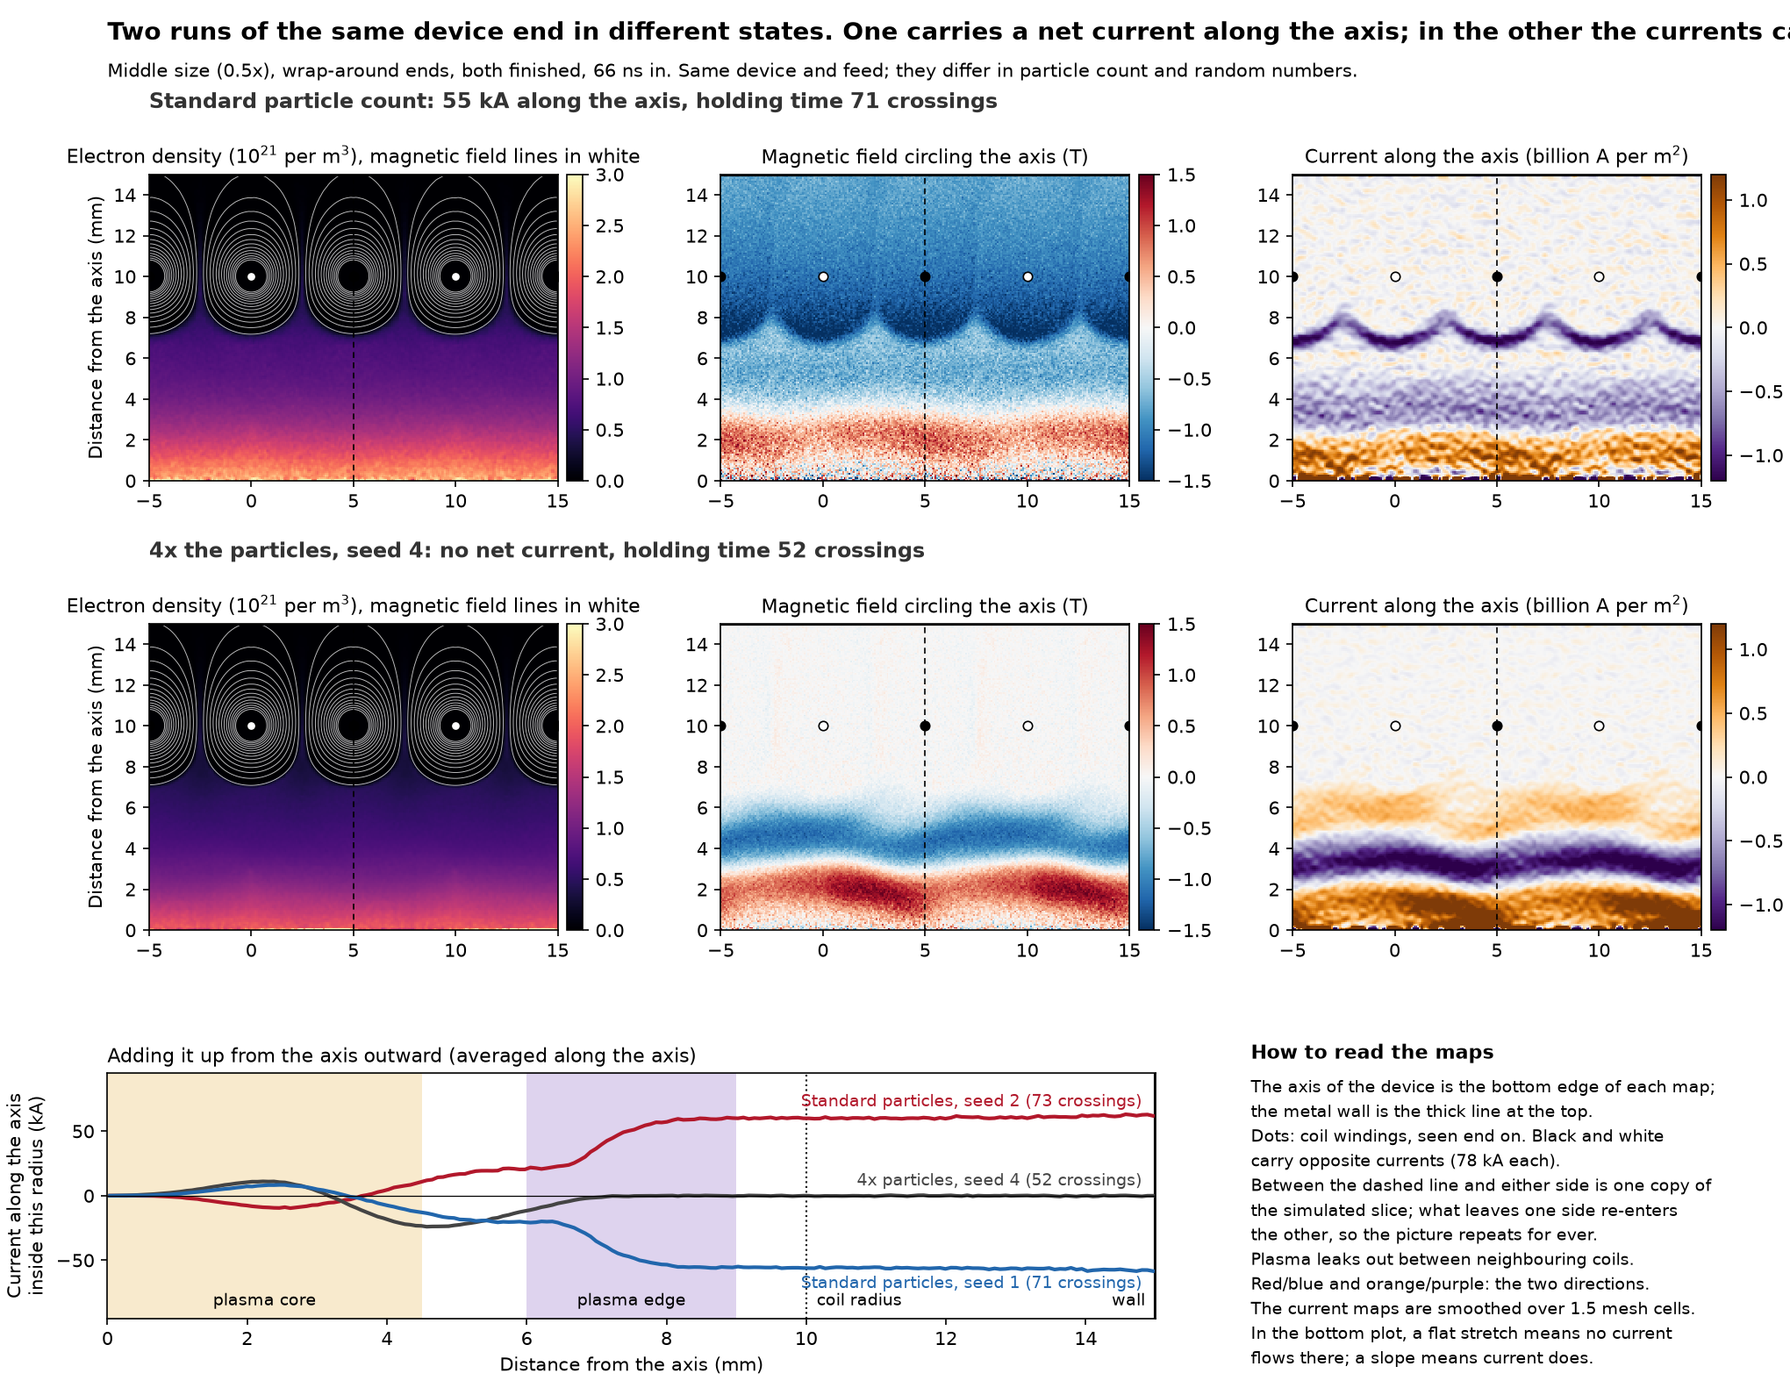
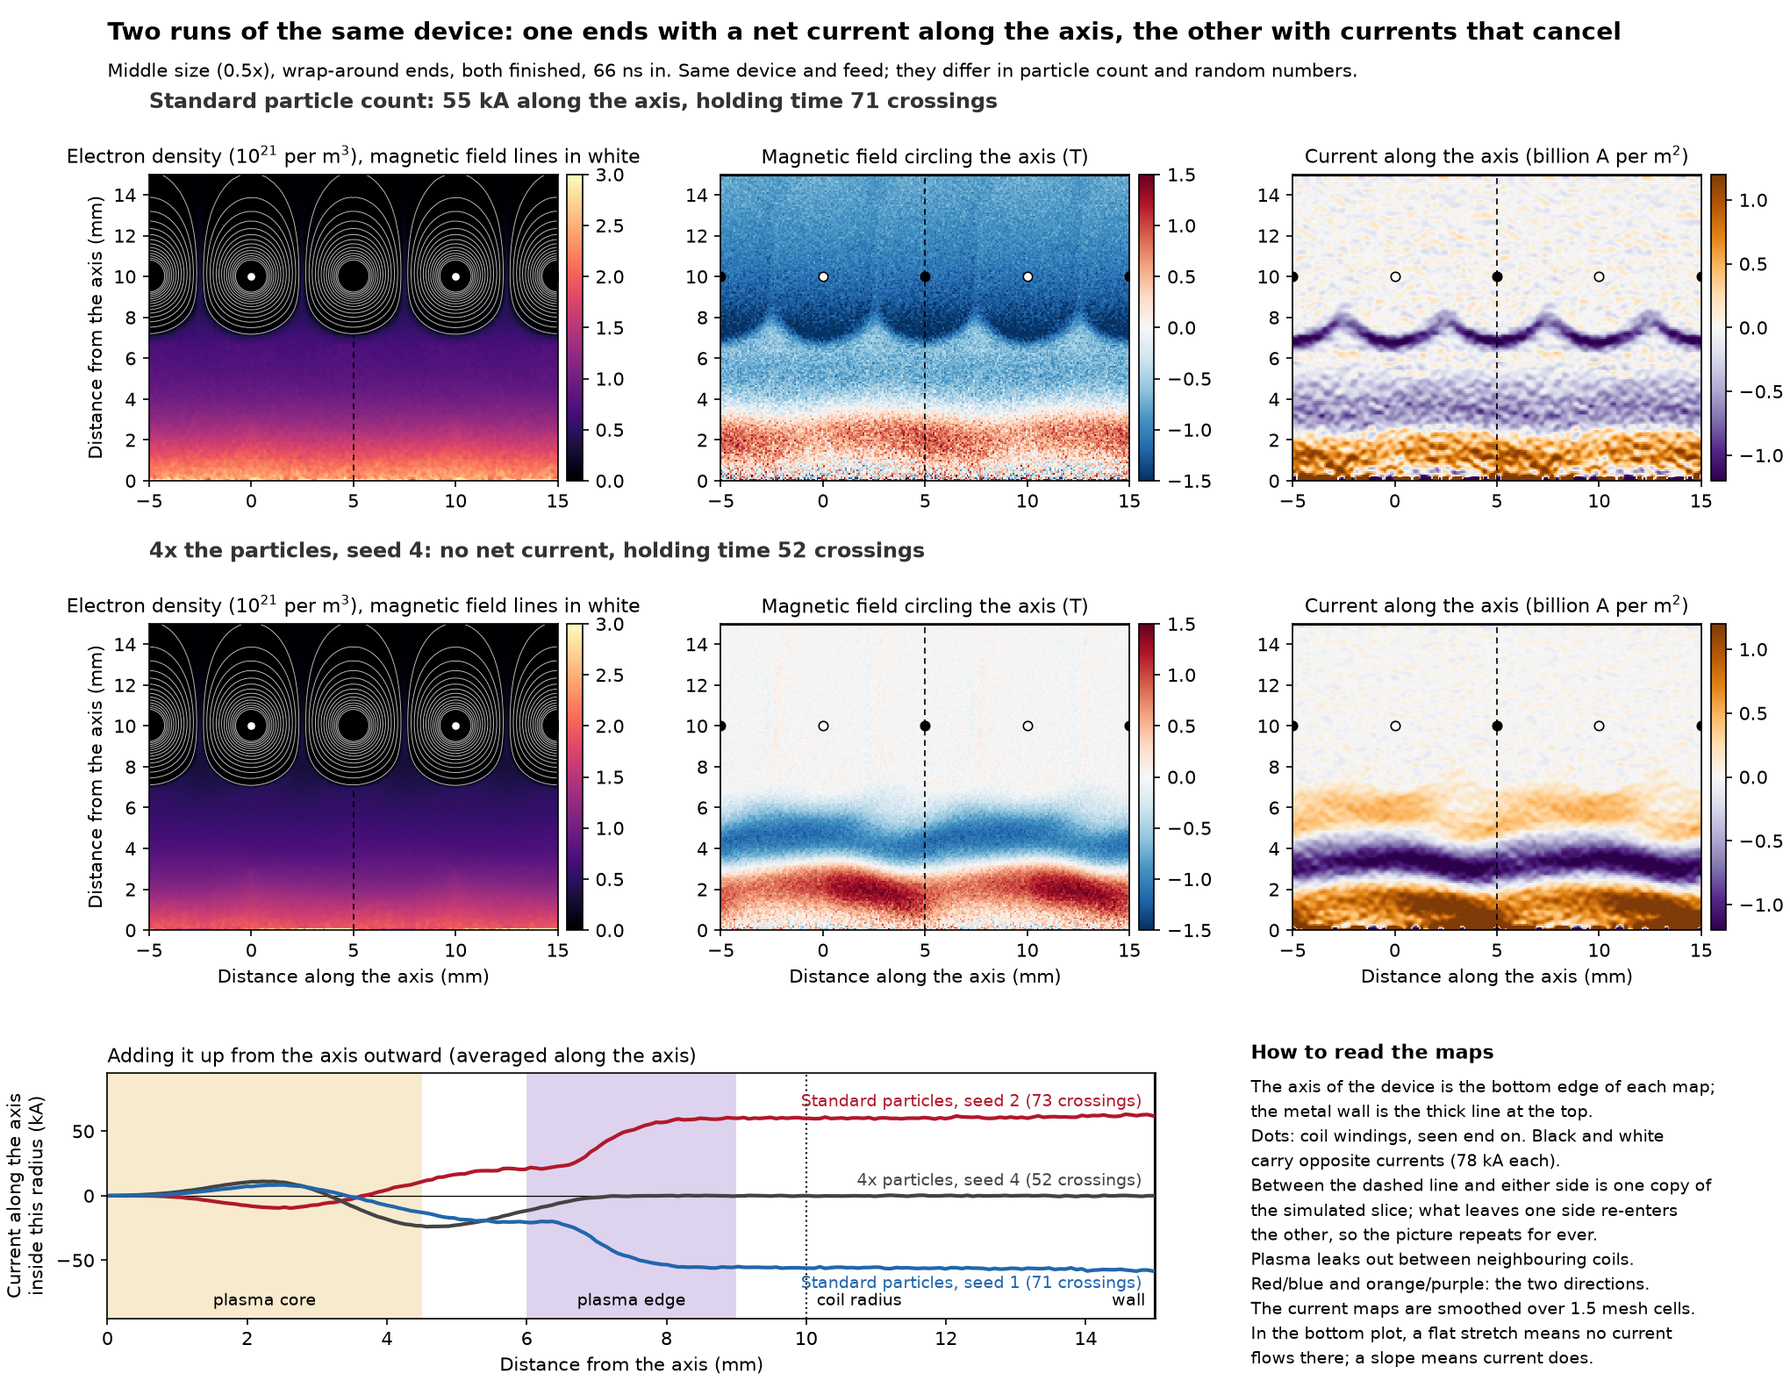
Rewrite the field-map drawing as functions and stop the title running off the page

diff --git a/warpx/cusp/plot_field_maps.py b/warpx/cusp/plot_field_maps.py
@@ -19,6 +19,42 @@ from pathlib import Path
 
 import numpy as np
 
+MU0 = 4e-7 * np.pi
+QE = 1.602176634e-19
+WALL, COIL, HALF_PERIOD = 15.0, 10.0, 5.0  # mm
+
+# Current figure: the two cases mapped, then the three whose running totals are plotted.
+RUNS = [
+    ("pw_s0.5_h1.0@1", "Standard particle count: 55 kA along the axis, holding time 71 crossings"),
+    ("pw_s0.5_h1.0_ppc4_seed4@1", "4x the particles, seed 4: no net current, holding time 52 crossings"),
+]
+TOTALS = [
+    ("pw_s0.5_h1.0_seed2@1", "Standard particles, seed 2 (73 crossings)", "#b2182b"),
+    ("pw_s0.5_h1.0_ppc4_seed4@1", "4x particles, seed 4 (52 crossings)", "#444444"),
+    ("pw_s0.5_h1.0@1", "Standard particles, seed 1 (71 crossings)", "#2166ac"),
+]
+# Mirror figure: one column each. No title means "Mirror ends" and the snapshot's time.
+COLUMNS = [("pw_s0.25_h1.0_long_ppc8@1", "Wrap-around ends, 66 ns")] + [
+    (f"pw_s0.25_h1.0_long2_ppc8_mirror@{fraction}", None) for fraction in ("0.25", "0.5", "0.75", "1")
+]
+READING = """The axis of the device is the bottom edge of each map;
+the metal wall is the thick line at the top.
+Dots: coil windings, seen end on. Black and white
+carry opposite currents (78 kA each).
+Between the dashed line and either side is one copy of
+the simulated slice; what leaves one side re-enters
+the other, so the picture repeats for ever.
+Plasma leaks out between neighbouring coils.
+Red/blue and orange/purple: the two directions.
+The current maps are smoothed over 1.5 mesh cells.
+In the bottom plot, a flat stretch means no current
+flows there; a slope means current does."""
+MIRROR_NOTE = """Smallest well-behaved size (0.25x), 4x the standard particles, one simulated slice. Left column: the same \
+device with wrap-around ends, for comparison.
+Colours are on a logarithmic scale. The plasma itself holds about 4 x 10$^{20}$ electrons per m$^3$; the surplus \
+on the axis reaches 120 to 190 x 10$^{20}$ by the end.
+In the mirror columns, the left and right edges of each map are the mirror planes."""
+
 
 def pack(specs: list[str]) -> None:
     out = {}
@@ -46,101 +82,191 @@ def pack(specs: list[str]) -> None:
     sys.stdout.write(base64.b64encode(packed.getvalue()).decode())
 
 
-if sys.argv[1] == "pack":
-    pack(sys.argv[2:])
-    sys.exit()
-
-import matplotlib
-
-matplotlib.use('Agg')
-import matplotlib.pyplot as plt
-from matplotlib.colors import LogNorm, SymLogNorm, TwoSlopeNorm
-from scipy.ndimage import gaussian_filter
-d=np.load(sys.argv[2]); names=list(d['names']); MU0=4e-7*np.pi; QE=1.602176634e-19
-RW,RC,H=15.0,10.0,5.0   # mm
-plt.rcParams.update({'font.size':10,'axes.titlesize':10.5,'figure.dpi':150,'font.family':'DejaVu Sans'})
-def get(k):
-    a=d[k].astype('f8'); f={n:a[i] for i,n in enumerate(names)}; nz,nr=a.shape[1:]
-    r=(np.arange(nr)+.5)/nr*RW*1e-3
-    f['ne']=-f['rho_electrons']/QE; f['net']=(f['rho_electrons']+f['rho_ions'])/QE
-    f['psi']=np.cumsum(r*f['Bz'],axis=1)*(r[1]-r[0])
-    f['jz']=np.gradient(r*f['Bt'],r,axis=1)/(MU0*r)
-    f['I']=2*np.pi*r*f['Bt'].mean(0)/MU0; f['r']=r*1e3; f['t']=float(d[k+'_t'])*1e9
-    f['E']=np.hypot(f['Er'],f['Ez'])
+def load(archive, key: str) -> dict:
+    """One snapshot's mesh fields by name, indexed [along the axis, from the axis], with the derived ones."""
+    stack = archive[key].astype("f8")
+    f = dict(zip(archive["names"], stack, strict=True))
+    cells = stack.shape[2]
+    r = (np.arange(cells) + 0.5) / cells * WALL * 1e-3
+    f["r_mm"] = r * 1e3
+    f["ns"] = float(archive[key + "_t"]) * 1e9
+    f["electrons"] = -f["rho_electrons"] / QE
+    f["ions_minus_electrons"] = (f["rho_electrons"] + f["rho_ions"]) / QE
+    f["flux"] = np.cumsum(r * f["Bz"], axis=1) * (r[1] - r[0])
+    f["current_density"] = np.gradient(r * f["Bt"], r, axis=1) / (MU0 * r)
+    f["current_inside"] = 2 * np.pi * r * f["Bt"].mean(0) / MU0
+    f["field_strength"] = np.hypot(f["Er"], f["Ez"])
     return f
-def tile(a,periodic=True,odd=False):
-    """two periods side by side; a mirrored run's image is its reflection"""
-    return np.concatenate([a,a],0) if periodic else np.concatenate([a,(-1 if odd else 1)*a[::-1]],0)
-def frame(ax,nper=2,ends='repeat'):
-    ax.set_xlim(-H,-H+2*H*nper); ax.set_ylim(0,RW); ax.set_aspect('equal')
-    for k in range(0,2*nper+1):
-        ax.plot([-H+k*H],[RC],'o',ms=5,mfc='white' if k%2 else 'black',mec='black',mew=0.8,zorder=5,clip_on=False if 0<k<2*nper else True)
-    ax.axhline(RW,color='k',lw=2)
-    if nper==2: ax.axvline(H,color='k',lw=0.8,ls=(0,(4,3)))
-def show(ax,a,ext,**kw):
-    return ax.imshow(a.T,origin='lower',extent=ext,aspect='equal',interpolation='nearest',**kw)
-def lines(ax,psi,ext,n=14):
-    z=np.linspace(ext[0],ext[1],psi.shape[0]*2+1)[1::2]; r=np.linspace(0,RW,psi.shape[1]*2+1)[1::2]
-    m=np.abs(psi[:, :int(0.62*psi.shape[1])]).max()
-    ax.contour(z,r,psi.T,levels=np.linspace(-m,m,2*n+1)[np.r_[0:n,n+1:2*n+1]]*0.98,colors='white',linewidths=0.45,alpha=0.75,linestyles='solid')
 
-# ---------- figure 1: where the current flows (0.5x, periodic, end of the run)
-runs=[('pw_s0.5_h1.0@1','Standard particle count: 55 kA along the axis, holding time 71 crossings'),
-      ('pw_s0.5_h1.0_ppc4_seed4@1','4x the particles, seed 4: no net current, holding time 52 crossings')]
-fig=plt.figure(figsize=(13.6,10.6)); gs=fig.add_gridspec(3,3,height_ratios=[1,1,0.8],hspace=0.5,wspace=0.2,left=0.06,right=0.965,top=0.875,bottom=0.055)
-ext=(-H,3*H,0,RW)
-for i,(k,label) in enumerate(runs):
-    f=get(k)
-    ax=fig.add_subplot(gs[i,0]); im=show(ax,tile(f['ne'])/1e21,ext,cmap='magma',vmin=0,vmax=3.0); lines(ax,tile(f['psi']),ext); frame(ax)
-    ax.set_title('Electron density (10$^{21}$ per m$^3$), magnetic field lines in white'); plt.colorbar(im,ax=ax,fraction=0.035,pad=0.02); ax.set_ylabel('Distance from the axis (mm)')
-    ax.text(-H,RW*1.2,label,fontsize=11.5,fontweight='bold',ha='left',va='bottom',color='#333333')
-    ax=fig.add_subplot(gs[i,1]); im=show(ax,tile(f['Bt']),ext,cmap='RdBu_r',vmin=-1.5,vmax=1.5); frame(ax)
-    ax.set_title('Magnetic field circling the axis (T)'); plt.colorbar(im,ax=ax,fraction=0.035,pad=0.02)
-    ax=fig.add_subplot(gs[i,2]); im=show(ax,tile(gaussian_filter(f['jz'],1.5,mode=('wrap','nearest')))/1e9,ext,cmap='PuOr_r',vmin=-1.2,vmax=1.2); frame(ax)
-    ax.set_title('Current along the axis (billion A per m$^2$)'); plt.colorbar(im,ax=ax,fraction=0.035,pad=0.02)
-for ax in fig.axes:
-    if ax.get_aspect()==1.0 and ax.get_xlim()==(-H,3*H) and ax.get_subplotspec().rowspan.start==1: ax.set_xlabel('Distance along the axis (mm)')
-ax=fig.add_subplot(gs[2,:2])
-ax.axvspan(0,4.5,color='#f3d9a4',alpha=0.55,lw=0); ax.axvspan(6,9,color='#c9b6e4',alpha=0.6,lw=0); ax.axvline(RC,color='k',lw=1,ls=':'); ax.axvline(RW,color='k',lw=2)
-for k,lab,c in [('pw_s0.5_h1.0_seed2@1','Standard particles, seed 2 (73 crossings)','#b2182b'),('pw_s0.5_h1.0_ppc4_seed4@1','4x particles, seed 4 (52 crossings)','#444444'),('pw_s0.5_h1.0@1','Standard particles, seed 1 (71 crossings)','#2166ac')]:
-    f=get(k); ax.plot(f['r'],f['I']/1e3,color=c,lw=2); ax.text(14.8,f['I'][-40:].mean()/1e3+(5 if f['I'][-1]>=-1e3 else -5),lab,color=c,ha='right',va='bottom' if f['I'][-1]>=-1e3 else 'top',fontsize=9)
-ax.axhline(0,color='k',lw=0.6); ax.set_xlim(0,RW); ax.set_ylim(-95,95)
-ax.set_xlabel('Distance from the axis (mm)'); ax.set_ylabel('Current along the axis\ninside this radius (kA)')
-ax.set_title('Adding it up from the axis outward (averaged along the axis)',loc='left')
-ax.text(2.25,-88,'plasma core',ha='center',va='bottom',fontsize=9); ax.text(7.5,-88,'plasma edge',ha='center',va='bottom',fontsize=9); ax.text(RC+0.15,-88,'coil radius',fontsize=9,va='bottom'); ax.text(RW-0.15,-88,'wall',ha='right',fontsize=9,va='bottom')
-ax=fig.add_subplot(gs[2,2]); ax.axis('off')
-ax.text(0,1.12,'How to read the maps',fontweight='bold',va='top',fontsize=10.5)
-ax.text(0,0.99,'\n'.join([
- 'The axis of the device is the bottom edge of each map;',
- 'the metal wall is the thick line at the top.',
- 'Dots: coil windings, seen end on. Black and white',
- 'carry opposite currents (78 kA each).',
- 'Between the dashed line and either side is one copy of',
- 'the simulated slice; what leaves one side re-enters',
- 'the other, so the picture repeats for ever.',
- 'Plasma leaks out between neighbouring coils.',
- 'Red/blue and orange/purple: the two directions.',
- 'The current maps are smoothed over 1.5 mesh cells.',
- 'In the bottom plot, a flat stretch means no current',
- 'flows there; a slope means current does.']),va='top',fontsize=9.3,linespacing=1.45)
-fig.suptitle('Two runs of the same device end in different states. One carries a net current along the axis; in the other the currents cancel.',x=0.06,ha='left',fontsize=13.5,fontweight='bold',y=0.985)
-fig.text(0.06,0.955,'Middle size (0.5x), wrap-around ends, both finished, 66 ns in. Same device and feed; they differ in particle count and random numbers.',fontsize=10,va='top')
-fig.savefig(Path(sys.argv[3],'picket-axial-current-map.png')); plt.close(fig)
 
-# ---------- figure 2: charge pile-up on the axis between mirror planes (0.25x)
-cols=[('pw_s0.25_h1.0_long_ppc8@1','Wrap-around ends, 66 ns',True)]+[(f'pw_s0.25_h1.0_long2_ppc8_mirror@{w}',None,False) for w in ('0.25','0.5','0.75','1')]
-fig,axs=plt.subplots(3,5,figsize=(13.6,11.2),gridspec_kw=dict(left=0.095,right=0.9,top=0.855,bottom=0.05,wspace=0.12,hspace=0.28,height_ratios=[1.5,0.75,1.5]))
-ext=(-H,H,0,RW)
-for j,(k,lab,per) in enumerate(cols):
-    f=get(k); lab=lab or 'Mirror ends, %.0f ns'%f['t']
-    ax=axs[0,j]; i1=show(ax,f['net']/1e20,ext,cmap='RdBu_r',norm=SymLogNorm(1,vmin=-200,vmax=200)); frame(ax,1); ax.set_title(lab,fontweight='bold')
-    ax=axs[1,j]; ax.imshow(f['net'][:, :8].T/1e20,origin='lower',extent=(-H,H,0,RW*8/f['net'].shape[1]),aspect='auto',interpolation='nearest',cmap='RdBu_r',norm=SymLogNorm(1,vmin=-200,vmax=200))
-    ax=axs[2,j]; i2=show(ax,np.clip(f['E'],1e6,None),ext,cmap='inferno',norm=LogNorm(1e7,1e11)); frame(ax,1); ax.set_xlabel('Distance along the axis (mm)')
-for ax in axs[:,1:].ravel(): ax.set_yticklabels([])
-for ax in axs.ravel(): ax.set_xticks([-4,-2,0,2,4])
-axs[0,0].set_ylabel('NET CHARGE\n\nDistance from the axis (mm)'); axs[1,0].set_ylabel('NET CHARGE\ninnermost 8 cells\n\n(mm)'); axs[2,0].set_ylabel('ELECTRIC FIELD STRENGTH\n\nDistance from the axis (mm)')
-cb=fig.colorbar(i1,cax=fig.add_axes([0.912,0.42,0.012,0.42])); cb.set_label('ions minus electrons (10$^{20}$ per m$^3$)\nred: too many ions, blue: too many electrons',fontsize=9)
-cb=fig.colorbar(i2,cax=fig.add_axes([0.912,0.06,0.012,0.27])); cb.set_label('V per m',fontsize=9)
-fig.suptitle('Between mirror planes, charge piles up along the axis (the bottom edge) and keeps growing',x=0.075,ha='left',fontsize=13.5,fontweight='bold',y=0.985)
-fig.text(0.075,0.953,'Smallest well-behaved size (0.25x), 4x the standard particles, one simulated slice. Left column: the same device with wrap-around ends, for comparison.\nColours are on a logarithmic scale. The plasma itself holds about 4 x 10$^{20}$ electrons per m$^3$; the surplus on the axis reaches 120 to 190 x 10$^{20}$ by the end.\nIn the mirror columns, the left and right edges of each map are the mirror planes.',fontsize=9.5,va='top')
-fig.savefig(Path(sys.argv[3],'picket-mirror-axis-charge-map.png')); plt.close(fig)
+def frame(ax, periods: int) -> None:
+    """Wall, coil windings (black and white carry opposite currents) and, for two periods, where they join."""
+    ax.set_xlim(-HALF_PERIOD, HALF_PERIOD * (2 * periods - 1))
+    ax.set_ylim(0, WALL)
+    ax.set_aspect("equal")
+    for k in range(2 * periods + 1):
+        ax.plot(
+            [(k - 1) * HALF_PERIOD], [COIL], "o", ms=5, mfc="white" if k % 2 else "black", mec="black", mew=0.8,
+            zorder=5, clip_on=k in (0, 2 * periods),
+        )
+    ax.axhline(WALL, color="k", lw=2)
+    if periods == 2:
+        ax.axvline(HALF_PERIOD, color="k", lw=0.8, ls=(0, (4, 3)))
+
+
+def show(ax, field, extent, **how):
+    return ax.imshow(field.T, origin="lower", extent=extent, aspect="equal", interpolation="nearest", **how)
+
+
+def field_lines(ax, flux, extent, count: int = 14) -> None:
+    z = np.linspace(extent[0], extent[1], flux.shape[0] * 2 + 1)[1::2]
+    r = np.linspace(0, WALL, flux.shape[1] * 2 + 1)[1::2]
+    # Levels are set by the flux inside 0.62 of the wall radius, so the lines are dense in the plasma and not
+    # crowded round the windings. The zero level is left out: it is the axis.
+    top = 0.98 * np.abs(flux[:, : int(0.62 * flux.shape[1])]).max()
+    levels = np.delete(np.linspace(-top, top, 2 * count + 1), count)
+    ax.contour(z, r, flux.T, levels=levels, colors="white", linewidths=0.45, alpha=0.75, linestyles="solid")
+
+
+def draw_current(archive, out: Path) -> None:
+    import matplotlib.pyplot as plt
+    from scipy.ndimage import gaussian_filter
+
+    fig = plt.figure(figsize=(13.6, 10.6))
+    grid = fig.add_gridspec(
+        3, 3, height_ratios=[1, 1, 0.8], hspace=0.5, wspace=0.2, left=0.06, right=0.965, top=0.875, bottom=0.055
+    )
+    extent = (-HALF_PERIOD, 3 * HALF_PERIOD, 0, WALL)
+    for row, (key, label) in enumerate(RUNS):
+        f = load(archive, key)
+        smooth = gaussian_filter(f["current_density"], 1.5, mode=("wrap", "nearest"))
+        maps = [
+            ("Electron density (10$^{21}$ per m$^3$), magnetic field lines in white", f["electrons"] / 1e21,
+             {"cmap": "magma", "vmin": 0, "vmax": 3.0}),
+            ("Magnetic field circling the axis (T)", f["Bt"], {"cmap": "RdBu_r", "vmin": -1.5, "vmax": 1.5}),
+            ("Current along the axis (billion A per m$^2$)", smooth / 1e9,
+             {"cmap": "PuOr_r", "vmin": -1.2, "vmax": 1.2}),
+        ]
+        for col, (title, field, how) in enumerate(maps):
+            ax = fig.add_subplot(grid[row, col])
+            image = show(ax, np.concatenate([field, field]), extent, **how)
+            frame(ax, 2)
+            ax.set_title(title)
+            plt.colorbar(image, ax=ax, fraction=0.035, pad=0.02)
+            if row == len(RUNS) - 1:
+                ax.set_xlabel("Distance along the axis (mm)")
+            if col == 0:
+                field_lines(ax, np.concatenate([f["flux"], f["flux"]]), extent)
+                ax.set_ylabel("Distance from the axis (mm)")
+                ax.text(-HALF_PERIOD, WALL * 1.2, label, fontsize=11.5, fontweight="bold", va="bottom", color="#333333")
+
+    ax = fig.add_subplot(grid[2, :2])
+    ax.axvspan(0, 4.5, color="#f3d9a4", alpha=0.55, lw=0)
+    ax.axvspan(6, 9, color="#c9b6e4", alpha=0.6, lw=0)
+    ax.axvline(COIL, color="k", lw=1, ls=":")
+    ax.axvline(WALL, color="k", lw=2)
+    ax.axhline(0, color="k", lw=0.6)
+    for key, label, colour in TOTALS:
+        kiloamps = load(archive, key)["current_inside"] / 1e3
+        ax.plot(load(archive, key)["r_mm"], kiloamps, color=colour, lw=2)
+        above = kiloamps[-1] >= -1
+        ax.text(
+            14.8, kiloamps[-40:].mean() + (5 if above else -5), label, color=colour, ha="right",
+            va="bottom" if above else "top", fontsize=9,
+        )
+    ax.set_xlim(0, WALL)
+    ax.set_ylim(-95, 95)
+    ax.set_xlabel("Distance from the axis (mm)")
+    ax.set_ylabel("Current along the axis\ninside this radius (kA)")
+    ax.set_title("Adding it up from the axis outward (averaged along the axis)", loc="left")
+    for x, name, align in [
+        (2.25, "plasma core", "center"), (7.5, "plasma edge", "center"), (COIL + 0.15, "coil radius", "left"),
+        (WALL - 0.15, "wall", "right"),
+    ]:
+        ax.text(x, -88, name, ha=align, va="bottom", fontsize=9)
+
+    ax = fig.add_subplot(grid[2, 2])
+    ax.axis("off")
+    ax.text(0, 1.12, "How to read the maps", fontweight="bold", va="top", fontsize=10.5)
+    ax.text(0, 0.99, READING, va="top", fontsize=9.3, linespacing=1.45)
+    fig.suptitle(
+        "Two runs of the same device: one ends with a net current along the axis, the other with currents that cancel",
+        x=0.06, ha="left", fontsize=13.5, fontweight="bold", y=0.985,
+    )
+    fig.text(
+        0.06, 0.955,
+        "Middle size (0.5x), wrap-around ends, both finished, 66 ns in. Same device and feed; they differ in "
+        "particle count and random numbers.",
+        fontsize=10, va="top",
+    )
+    fig.savefig(out / "picket-axial-current-map.png")
+    plt.close(fig)
+
+
+def draw_mirror(archive, out: Path) -> None:
+    import matplotlib.pyplot as plt
+    from matplotlib.colors import LogNorm, SymLogNorm
+
+    fig, axes = plt.subplots(
+        3, len(COLUMNS), figsize=(13.6, 11.2),
+        gridspec_kw={
+            "left": 0.095, "right": 0.9, "top": 0.855, "bottom": 0.05, "wspace": 0.12, "hspace": 0.28,
+            "height_ratios": [1.5, 0.75, 1.5],
+        },
+    )
+    extent = (-HALF_PERIOD, HALF_PERIOD, 0, WALL)
+    charge_scale = {"cmap": "RdBu_r", "norm": SymLogNorm(1, vmin=-200, vmax=200)}
+    inner = 8
+    for col, (key, title) in enumerate(COLUMNS):
+        f = load(archive, key)
+        charge = f["ions_minus_electrons"] / 1e20
+        charge_image = show(axes[0, col], charge, extent, **charge_scale)
+        frame(axes[0, col], 1)
+        axes[0, col].set_title(title or f"Mirror ends, {f['ns']:.0f} ns", fontweight="bold")
+        axes[1, col].imshow(
+            charge[:, :inner].T, origin="lower", extent=(*extent[:2], 0, WALL * inner / charge.shape[1]),
+            aspect="auto", interpolation="nearest", **charge_scale,
+        )
+        field_image = show(axes[2, col], f["field_strength"], extent, cmap="inferno", norm=LogNorm(1e7, 1e11))
+        frame(axes[2, col], 1)
+        axes[2, col].set_xlabel("Distance along the axis (mm)")
+    for ax in axes[:, 1:].ravel():
+        ax.set_yticklabels([])
+    for ax in axes.ravel():
+        ax.set_xticks([-4, -2, 0, 2, 4])
+    axes[0, 0].set_ylabel("NET CHARGE\n\nDistance from the axis (mm)")
+    axes[1, 0].set_ylabel(f"NET CHARGE\ninnermost {inner} cells\n\n(mm)")
+    axes[2, 0].set_ylabel("ELECTRIC FIELD STRENGTH\n\nDistance from the axis (mm)")
+    fig.colorbar(charge_image, cax=fig.add_axes([0.912, 0.42, 0.012, 0.42])).set_label(
+        "ions minus electrons (10$^{20}$ per m$^3$)\nred: too many ions, blue: too many electrons", fontsize=9
+    )
+    fig.colorbar(field_image, cax=fig.add_axes([0.912, 0.06, 0.012, 0.27])).set_label("V per m", fontsize=9)
+    fig.suptitle(
+        "Between mirror planes, charge piles up along the axis (the bottom edge) and keeps growing",
+        x=0.075, ha="left", fontsize=13.5, fontweight="bold", y=0.985,
+    )
+    fig.text(0.075, 0.953, MIRROR_NOTE, fontsize=9.5, va="top")
+    fig.savefig(out / "picket-mirror-axis-charge-map.png")
+    plt.close(fig)
+
+
+def draw(archive_path: str, out_dir: str) -> None:
+    # Imported here because `pack` runs on workers, which have numpy only.
+    import matplotlib
+
+    matplotlib.use("Agg")
+    import matplotlib.pyplot as plt
+
+    plt.rcParams.update({"font.size": 10, "axes.titlesize": 10.5, "figure.dpi": 150, "font.family": "DejaVu Sans"})
+    archive = np.load(archive_path)
+    draw_current(archive, Path(out_dir))
+    draw_mirror(archive, Path(out_dir))
+
+
+if __name__ == "__main__":
+    if sys.argv[1] == "pack":
+        pack(sys.argv[2:])
+    elif sys.argv[1] == "draw":
+        draw(*sys.argv[2:4])
+    else:
+        sys.exit(__doc__)
